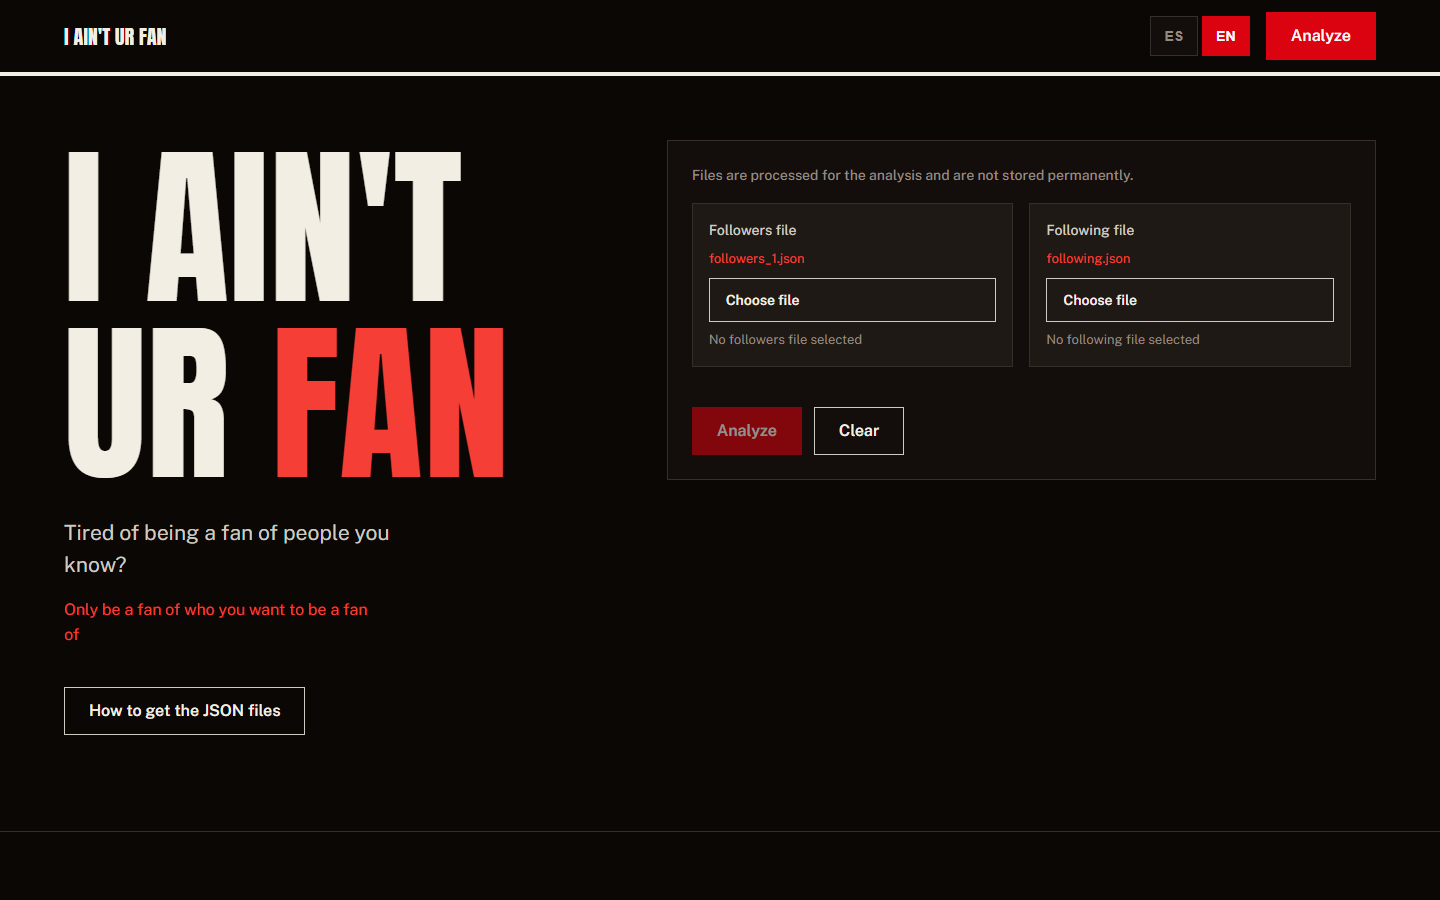
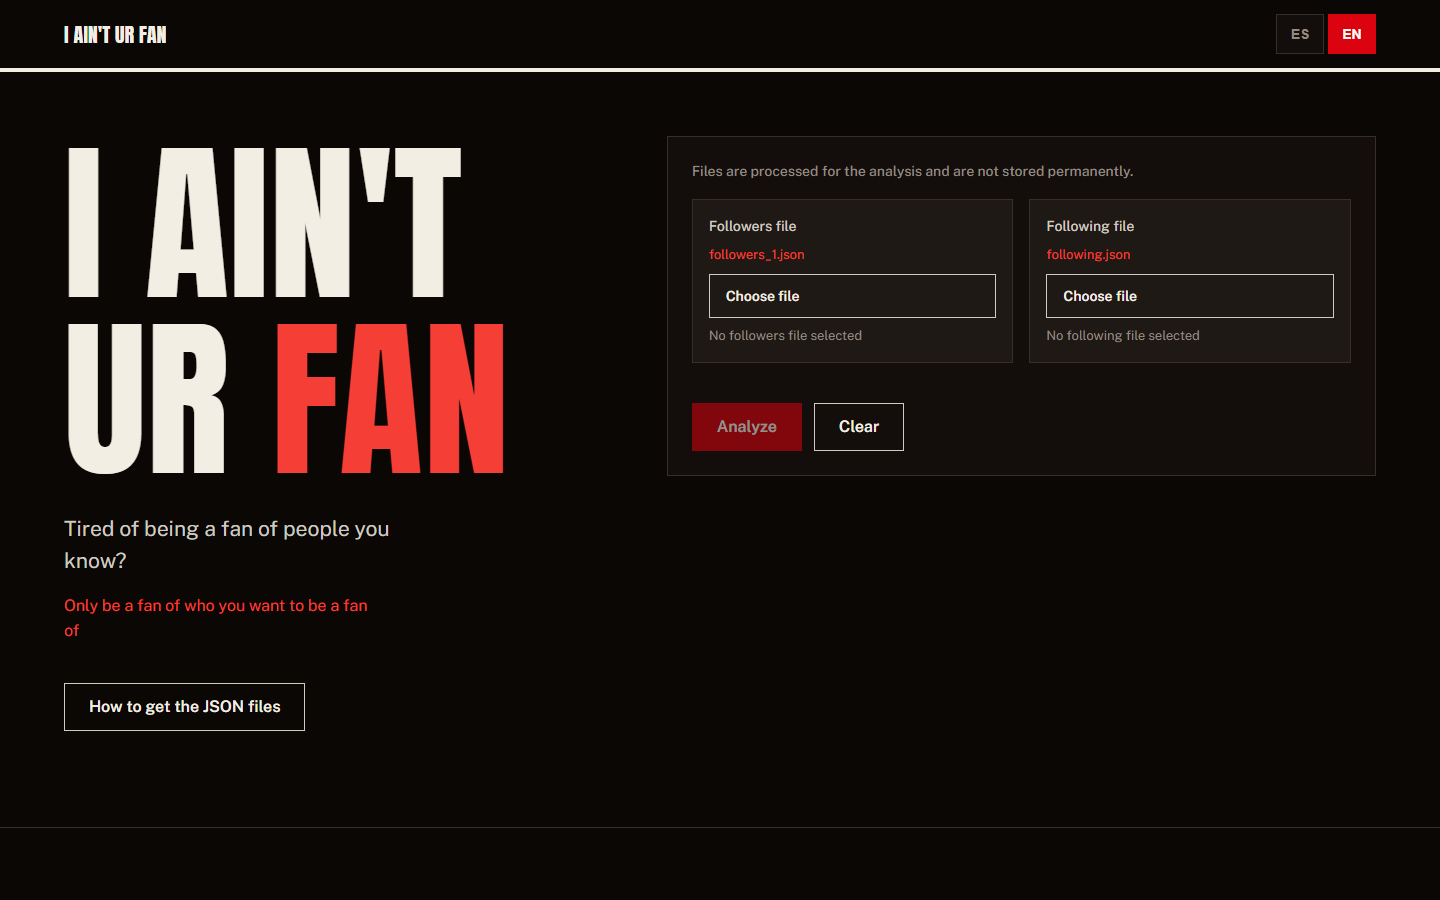
Improve mobile layout and safe-area support
Refine responsive styles for smaller screens, add viewport safe-area support, remove the header Analyze button, and refresh the app screenshots.

diff --git a/frontend/src/app/app.component.css b/frontend/src/app/app.component.css
@@ -104,9 +104,12 @@
   border: var(--rule-hair) solid transparent;
   border-radius: var(--radius-card);
   background: none;
-  font: 600 var(--text-md) / 1 var(--font-body);
+  font: 600 var(--text-md) / 1.25 var(--font-body);
   cursor: pointer;
   text-decoration: none;
+  text-align: center;
+  white-space: normal;
+  max-width: 100%;
   transition:
     background-color var(--dur-short) var(--ease-out),
     color var(--dur-short) var(--ease-out),
@@ -703,13 +706,71 @@
 }
 
 @media (max-width: 60rem) {
+  .hero {
+    padding-block: var(--space-xl) var(--space-2xl);
+  }
+
   .hero__grid,
   .files-grid,
-  .upload-pair,
-  .result-tabs,
-  .stats,
   .record li,
   .steps li {
     grid-template-columns: minmax(0, 1fr);
+  }
+
+  .hero__grid {
+    gap: var(--space-xl);
+  }
+
+  .display {
+    font-size: clamp(2.75rem, 14vw, 5.5rem);
+  }
+
+  .export-help__bar {
+    flex-direction: column;
+    align-items: stretch;
+  }
+
+  .export-help__title {
+    max-width: none;
+    font-size: clamp(1.75rem, 7vw, 2.75rem);
+  }
+
+  .export-help__bar .btn {
+    align-self: flex-start;
+  }
+}
+
+@media (max-width: 40rem) {
+  .upload-pair,
+  .result-tabs,
+  .stats {
+    grid-template-columns: minmax(0, 1fr);
+  }
+
+  .hero__actions,
+  .product-stage .hero__actions {
+    flex-direction: column;
+    align-items: stretch;
+  }
+
+  .hero__actions .btn,
+  .product-stage .hero__actions .btn {
+    width: 100%;
+  }
+
+  .product-stage {
+    padding: var(--space-md);
+  }
+
+  .export-help {
+    padding: var(--space-md);
+  }
+
+  .band--red h2 {
+    max-width: none;
+  }
+
+  .result-tabs strong {
+    font-size: var(--text-md);
   }
 }

diff --git a/frontend/src/index.html b/frontend/src/index.html
@@ -4,7 +4,7 @@
   <meta charset="utf-8">
   <title>I ain't ur fan</title>
   <base href="/">
-  <meta name="viewport" content="width=device-width, initial-scale=1">
+  <meta name="viewport" content="width=device-width, initial-scale=1, viewport-fit=cover">
   <meta name="description" content="Compare Instagram JSON exports and see friends, fans, and idols. No login. No database.">
   <link rel="icon" type="image/x-icon" href="i-aint-ur-fan_logo.ico">
   <link rel="preconnect" href="https://fonts.googleapis.com">

diff --git a/frontend/src/styles.css b/frontend/src/styles.css
@@ -86,6 +86,9 @@ body {
   font-size: var(--text-md);
   line-height: 1.55;
   -webkit-font-smoothing: antialiased;
+  padding-left: env(safe-area-inset-left);
+  padding-right: env(safe-area-inset-right);
+  padding-bottom: env(safe-area-inset-bottom);
 }
 
 ::selection {

diff --git a/frontend/src/app/app.component.html b/frontend/src/app/app.component.html
@@ -24,7 +24,6 @@
           {{ t('langEn') }}
         </button>
       </div>
-      <a class="btn btn--primary" href="#analyze">{{ t('analyze') }}</a>
     </div>
   </div>
 </header>
